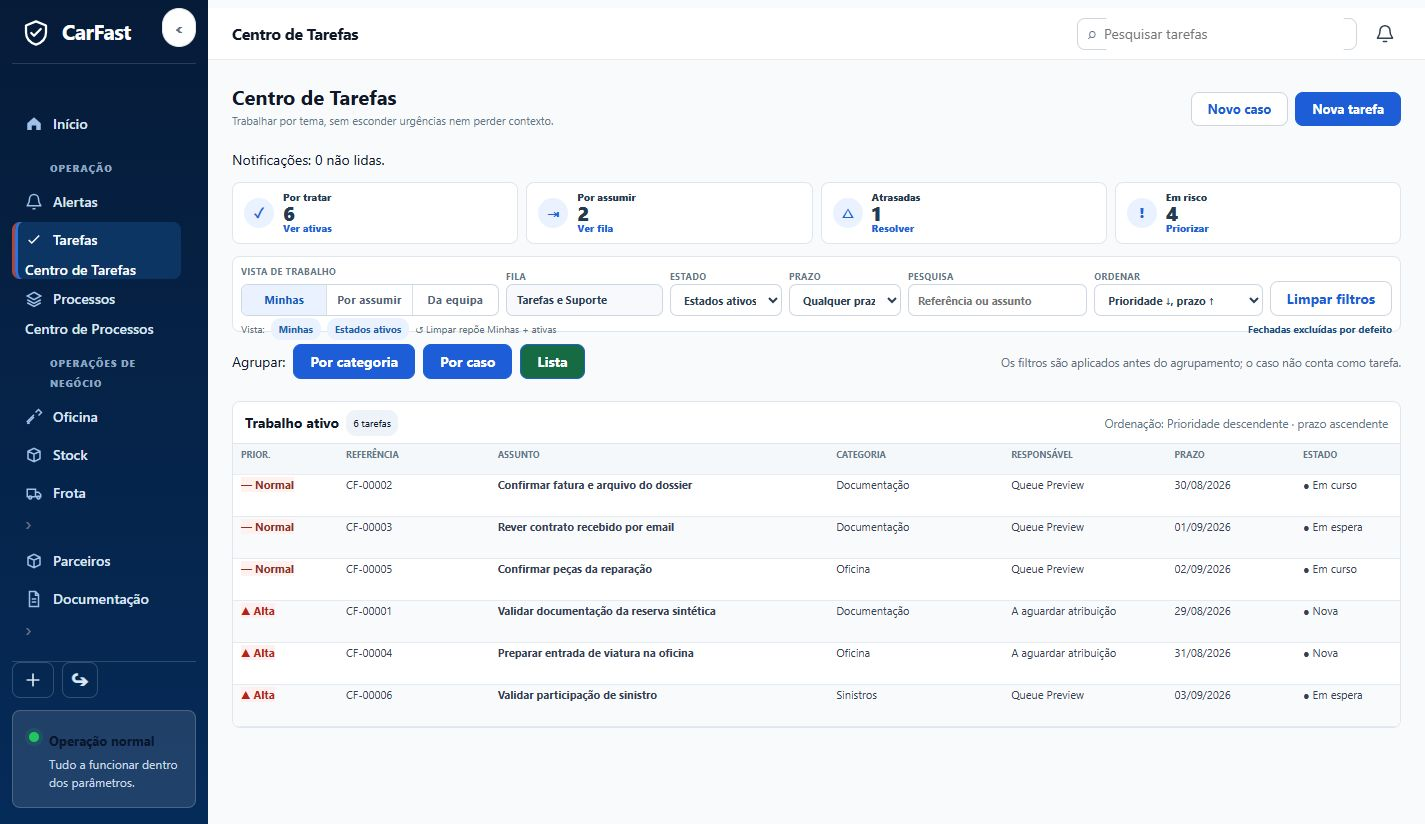
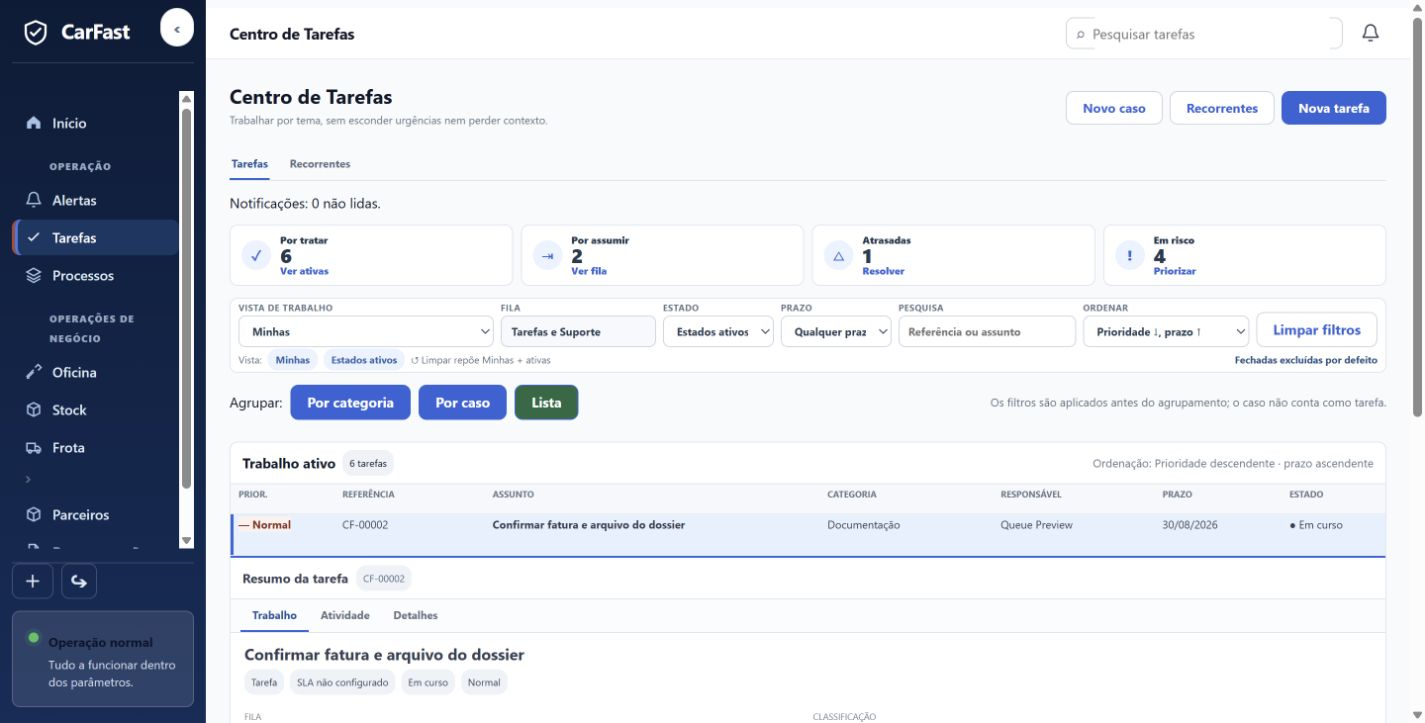
docs(tasks): capture acceptance parity evidence

diff --git a/docs/evidence/task-center-acceptance-parity/EVIDENCE.md b/docs/evidence/task-center-acceptance-parity/EVIDENCE.md
@@ -15,7 +15,7 @@
 | Uma fila, Tarefas e Suporte por defeito | Resolver server-side de filas; Administração só quando autorizada | Matriz web/API positiva e negativa |
 | Minhas / Por assumir / Da equipa sem fallback | Relações server-side e vista de equipa vazia fail-closed | Testes focados + browser |
 | Estados completos | Filtros exatos Nova, Em curso, Em espera, Suporte solicitado, Resolvida e Cancelada; agregados ativos/fechados/todos | Teste parametrizado de isolamento |
-| Fechadas + Em risco incompatíveis | Pedido rejeitado com HTTP 400, sem normalização silenciosa | Teste negativo |
+| Fechadas + Em risco incompatíveis | Em risco é desativado e removido explicitamente, com aviso; sem fallback da vista | Teste negativo |
 | Prazo, pesquisa e ordenação | Query server-side e contexto na URL | Percursos browser e testes existentes |
 | Categoria / Caso / Lista | Categoria agrupa; Caso contém apenas `TaskCase` persistidos; Lista mostra tarefas | Testes de agrupamento/contagens |
 | Preview inline | Montagem sob linha/grupo; alternar, trocar e Escape; um único preview | Browser desktop/mobile, teclado/foco |
@@ -35,32 +35,43 @@
 - Recorrentes: utilizador sintético com `tasks.recurring.manage` vê a ação
   secundária, abre `/v2-clean/tasks/recurring` e encontra modelos, estado e
   próxima execução; sem a permissão, a ação continua ausente.
-- O override de viewport do browser integrado não alterou a viewport para
-  390×844. A captura incorretamente dimensionada foi removida e o gate mobile
-  permanece aberto; não é reportado como PASS.
+- Browser mobile real 390×844: viewport confirmada por `innerWidth/innerHeight`,
+  documento e body sem overflow horizontal, filtros numa coluna, KPIs numa
+  coluna, tabela reduzida aos quatro campos úteis, preview abrir/trocar/Escape,
+  Categoria/Caso e restauro por hash PASS. Capturas em
+  `browser/live-mobile-390x844.png`, `browser/mobile-case-preview-390x844.png`
+  e `browser/mobile-management-390x844.png`.
+- Criação: seletor progressivo mostra Pedido simples, Informação/Comunicação,
+  Tarefa completa e Caso; Caso fecha o primeiro diálogo, abre o fluxo canónico
+  e coloca foco no título. Gestão: Editar, Comentar, Alterar estado e Solicitar
+  suporte partilham a mesma linguagem visual e os alvos de suporte são
+  resolvidos server-side/fail-closed.
 - A política do browser bloqueou a abertura direta do `file://` contratual.
   A comparação estrutural foi feita contra o HTML congelado, mas a captura
   pixel/geometria lado a lado do clicável continua aberta.
 
 ## Execuções locais
 
-- Regressão focada final: `68 passed` (Centro aprovado/v3, recorrências,
+- Regressão focada final: `90 passed` (Centro aprovado/v3, recorrências,
   casos e autorização).
 - Suite integral antes da correção diferencial: `45 failed, 842 passed`.
   Uma falha era causada pelo candidato (o teste canónico exige normalização
   explícita de Fechadas + Em risco, não HTTP 400); foi corrigida sem alterar
   comportamento fora do âmbito. Renovação integral final: `44 failed,
   843 passed`; as 44 falhas são as preexistentes da base e não há regressões
-  adicionais desta tranche.
+  adicionais desta tranche. Após a continuação de paridade, nova execução
+  integral: `44 failed, 846 passed`; mantém exatamente as mesmas 44 falhas
+  preexistentes e acrescenta três testes PASS, sem regressões novas.
 - Alembic: head único `fff6ab1c2d3e`.
 - Ruff global: FAIL preexistente (2282 ocorrências em todo o repositório); o CI
   canónico limita Ruff ao conjunto versionado em `.github/workflows/ci.yml`.
 - Compilação de `app` e `scripts`: PASS.
-- Workflow CI canónico local: Ruff restrito PASS, arquitetura congelada PASS,
-  Alembic graph PASS e seleção exata de testes `183 passed`.
-- Revisão independente após correção da reconciliação dos quatro KPIs:
-  código zero P0/P1 (`75 passed`, diff-check PASS). O revisor mantém como
-  bloqueio de aceitação apenas os dois gates visuais ainda abertos acima.
+- Workflow CI canónico local renovado: Ruff restrito PASS, arquitetura
+  congelada PASS, Alembic graph PASS e seleção exata de testes `186 passed`.
+  O novo formulário de suporte acrescentou uma ocorrência POST ao baseline;
+  o delta mecânico foi regenerado e verificado antes desta execução.
+- A revisão independente anterior confirmou código zero P0/P1 (`75 passed`,
+  diff-check PASS). Deve ser renovada depois desta continuação.
 
 Nenhuma divergência P0/P1 pode permanecer para fechar o gate local.
 
